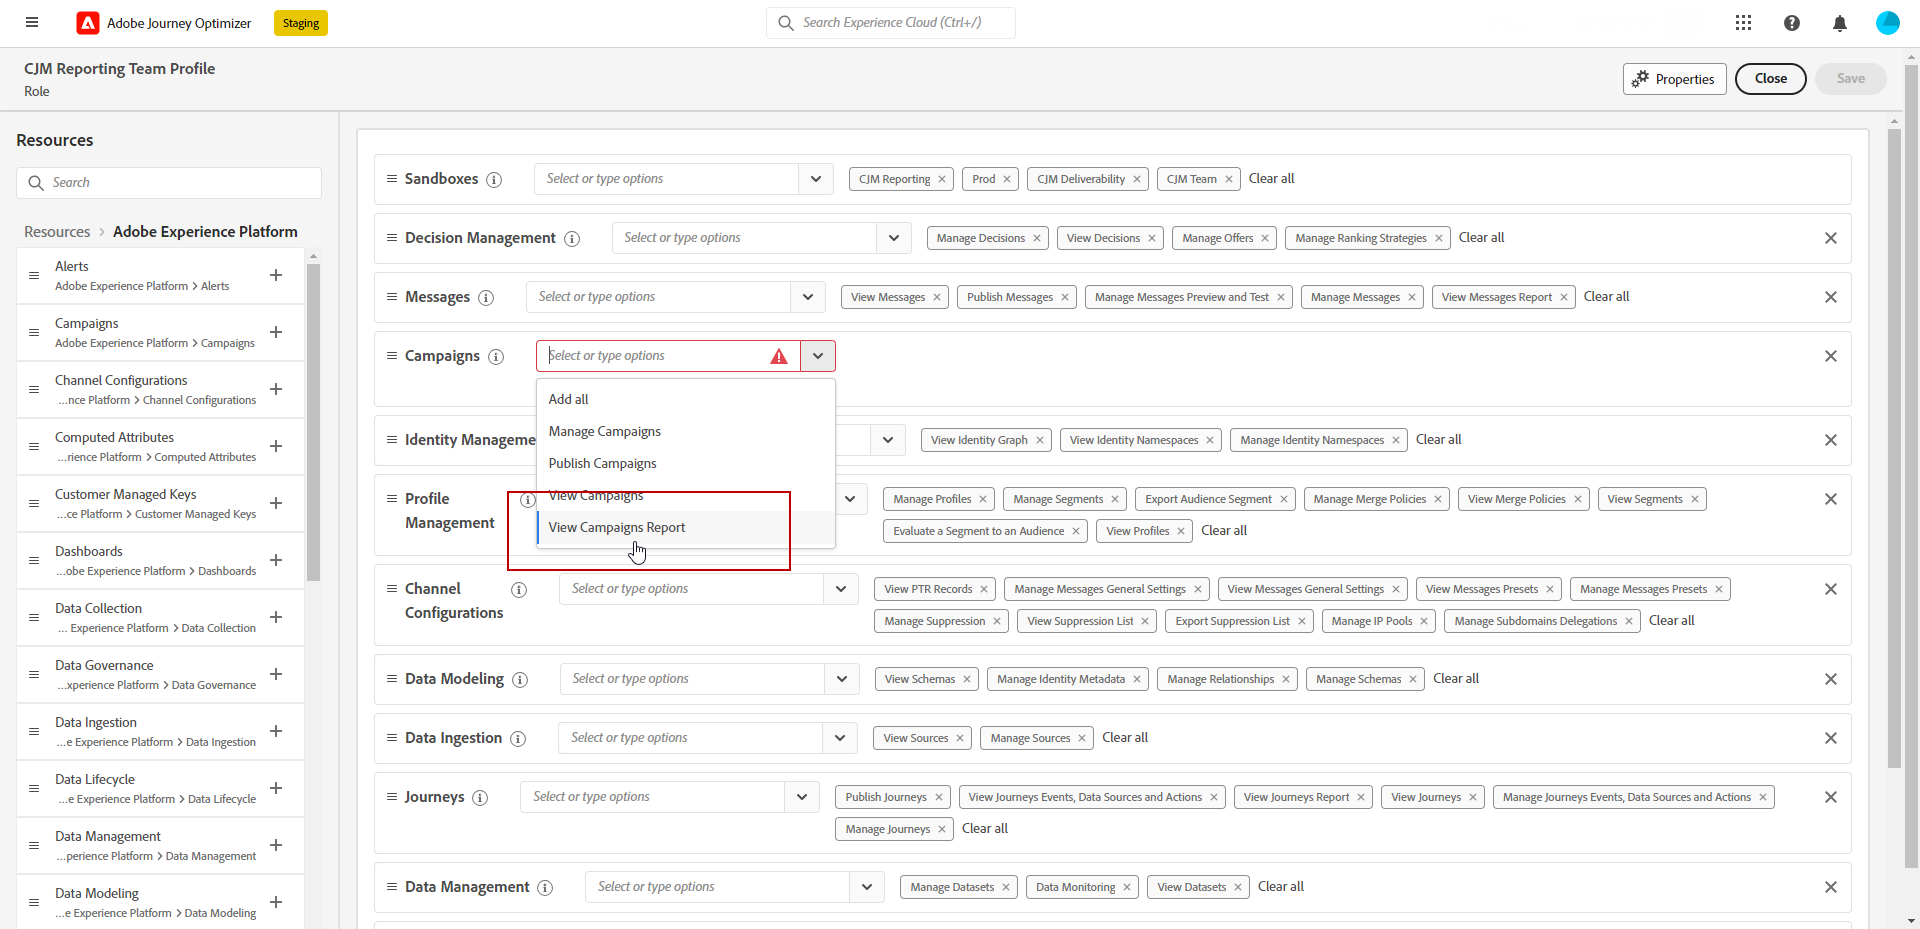
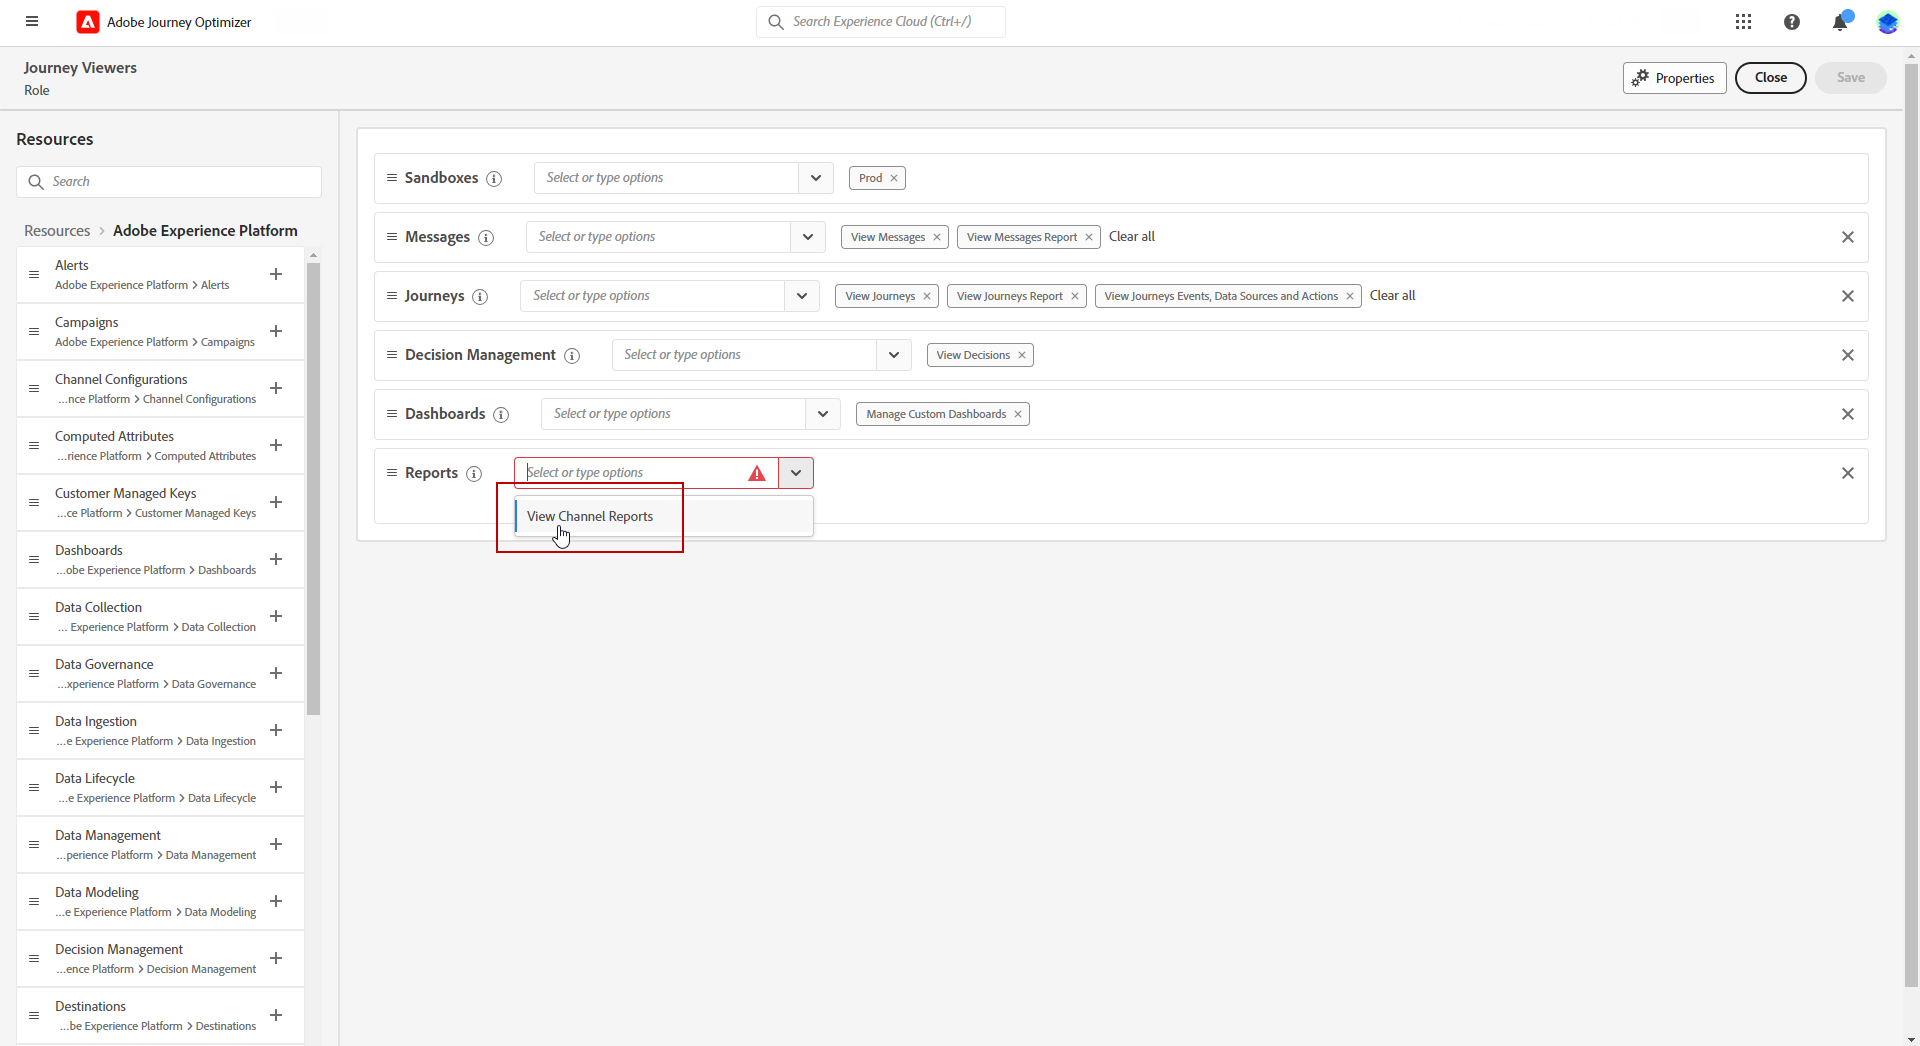
update permissions

diff --git a/help/using/administration/ootb-permissions.md b/help/using/administration/ootb-permissions.md
@@ -15,6 +15,7 @@ exl-id: 5d014017-ca7c-4206-b783-989677ec0e1c
 | Capability | Permissions|
 |-|-|
 |Campaigns|**[!DNL Manage campaigns]**: read, create, edit, and delete campaigns. </br>**[!DNL Publish campaigns]**: right to publish campaigns.</br>**[!DNL View campaigns]**: read-only access to campaigns. </br>**[!DNL View campaigns report]**: read and edit campaign reports.|
+|Reports|**[!DNL View channel reports]**: read and edit channel reports.|
 |Channel configurations|**[!DNL Export suppression list]**: access to export suppression list as a CSV file.</br>**[!DNL Manage alerts]**: enable/disable alerts for campaigns, messages and entitlements.</br> **[!DNL Manage IP pools]**: read, create, edit, and delete ip pool. </br>**[!DNL Manage landing page settings]**: read, create, edit, and delete landing page settings.</br> **[!DNL Manage messages general settings]**: read, create, edit, and delete message general settings.</br>**[!DNL Manage messages presets]**: read, create, edit, and delete content branding.</br>**[!DNL Manage PTR records]**: read and edit PTR records. </br>**[!DNL Manage SMS settings]**: read, create, edit, and delete SMS settings. </br>**[!DNL Manage SMS subdomains]**: read, create, edit, and delete SMS subdomains.</br> **[!DNL Manage Seedlist]**: read, create, edit, and delete Seedlist. </br> **[!DNL Manage subdomains delegation]**: read, create, edit, and delete subdomain delegation. </br>**[!DNL Manage suppression rules]**: access read, create, edit and delete suppression rules.</br>**[!DNL View channel surfaces]**: read-only access to channel surfaces.</br> **[!DNL View messages general settings]**: read-only access to message general settings.</br> **[!DNL View messages presets]**: read-only access to messages presets. </br> **[!DNL View PTR records]**: read-only access to PTR records.</br>**[!DNL View suppression list]**: read and export local suppression list.|
 |Dashboards|**[!DNL View license usage dashboards]**: read-only access to the license usage dashboard. </br>**[!DNL Manage custom dashboards]**: allows you to create a new dashboard or edit an existing dashboard.</br>**[!DNL View custom dashboards]**: read-only access to user defined dashboards. </br>**[!DNL View standard dashboards]**: read-only access to the Profiles, Destinations, and Segments dashboards.</br>**[!DNL Manage standard dashboards]**: allows you to create custom widgets and edit the widget schema through the Widget library.|
 |Data collection|**[!DNL Manage datastream]**: read, create, and edit datastreams.</br>**[!DNL View datastream]**: read-only access to datastreams.|

diff --git a/help/using/reports/channel-report-gs.md b/help/using/reports/channel-report-gs.md
@@ -35,7 +35,7 @@ To assign the corresponding permission to your **[!UICONTROL Role]**:
         
     ![](assets/channel_permission_1.png)
 
-1. Drag and drop the **[!UICONTROL Report]** resource to assign permission.
+1. Drag and drop the **[!UICONTROL Reports]** resource to assign permission.
 
     From the **[!UICONTROL Report]** resource drop-down, select the **[!UICONTROL View Channel Reports]** permission.
 
